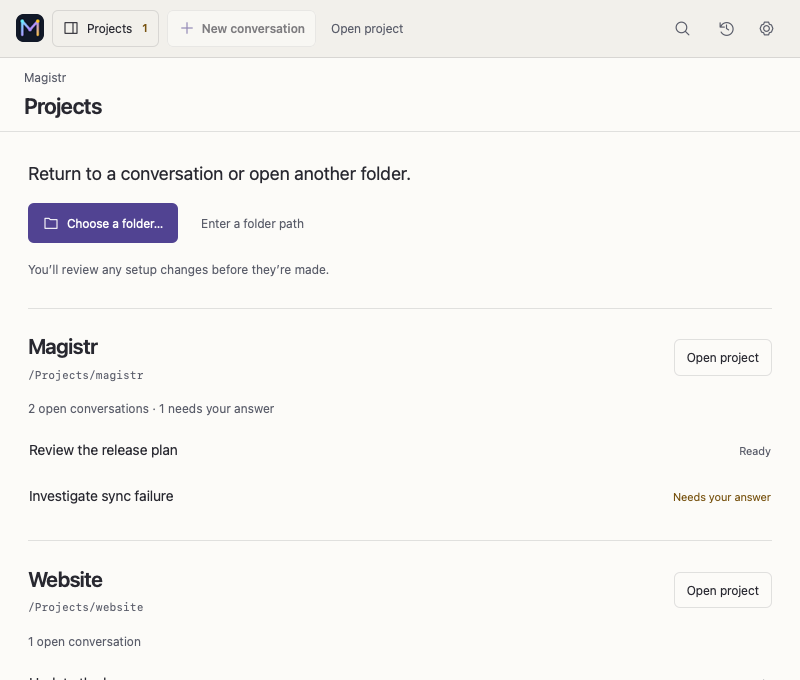
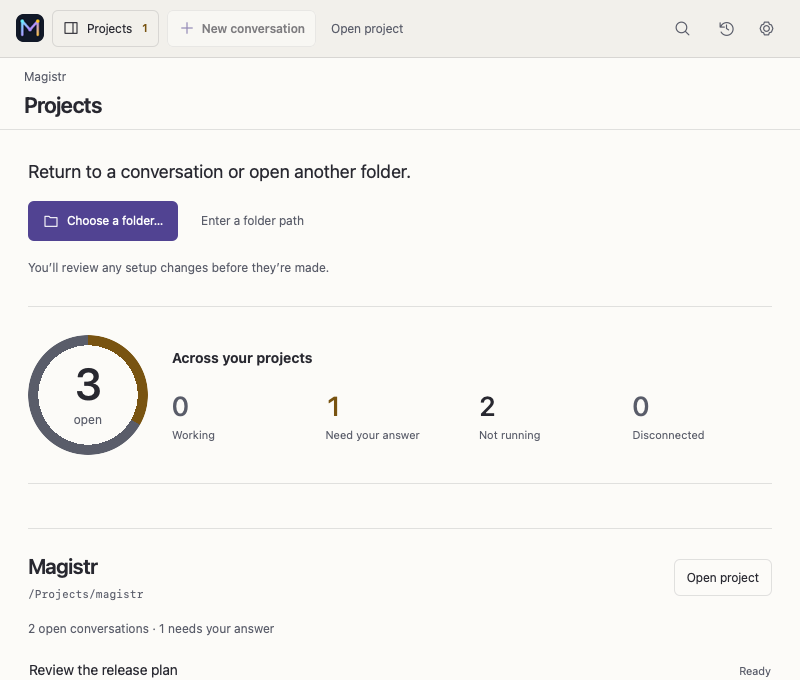
feat(desktop): compose a live project activity overview

diff --git a/crates/magistr-desktop/ui/style.css b/crates/magistr-desktop/ui/style.css
@@ -263,6 +263,17 @@ textarea::placeholder,input::placeholder{color:var(--muted);opacity:1}
 .welcome-actions button:first-child{background:var(--button);color:var(--button-text);border-color:var(--button)}
 .welcome-actions button+button{background:transparent;border-color:transparent;color:var(--muted)}
 
+.project-activity{display:grid;grid-template-columns:144px minmax(0,1fr);align-items:center;gap:40px;margin:0 0 44px;padding:28px 0;border-block:1px solid var(--separator)}
+.activity-wheel{display:grid;place-content:center;text-align:center;position:relative;isolation:isolate;width:144px;height:144px}
+.activity-wheel::before{content:"";position:absolute;inset:0;border-radius:50%;background:var(--activity-fill);mask:radial-gradient(circle,transparent 58%,black 59%);-webkit-mask:radial-gradient(circle,transparent 58%,black 59%);z-index:-1}
+.activity-wheel strong{font-size:44px;line-height:1.05;font-weight:500;font-variant-numeric:tabular-nums;letter-spacing:-.06em}.activity-wheel>span{font-size:12px;color:var(--muted);margin-top:4px}
+.activity-body h2{font-size:14px;letter-spacing:0;text-transform:none;color:var(--text);margin:0 0 24px}
+.activity-counts{display:grid;grid-template-columns:repeat(4,minmax(0,1fr));gap:20px;margin:0}
+.activity-count{display:flex;flex-direction:column-reverse;gap:8px;min-width:0}.activity-count dt{font-size:11px;line-height:1.4;color:var(--muted)}.activity-count dd{font-size:30px;font-weight:500;line-height:1;margin:0;font-variant-numeric:tabular-nums;letter-spacing:-.035em}
+.activity-count[data-kind=working] dd{color:var(--success)}.activity-count[data-kind=waiting] dd{color:var(--warning)}.activity-count[data-kind=disconnected] dd{color:var(--danger)}.activity-count[data-empty=true] dd{color:var(--muted)}
+@media(max-width:1100px){.project-activity{gap:24px;grid-template-columns:120px minmax(0,1fr)}.activity-wheel{width:120px;height:120px}.activity-counts{gap:14px}.activity-count dd{font-size:27px}}
+@media(max-width:600px){.project-activity{grid-template-columns:92px minmax(0,1fr);gap:20px}.activity-wheel{width:92px;height:92px}.activity-wheel strong{font-size:32px}.activity-counts{grid-template-columns:1fr 1fr;gap:18px}.activity-body h2{margin-bottom:18px}}
+@media(forced-colors:active){.activity-wheel::before{background:none;border:2px solid CanvasText;mask:none;-webkit-mask:none}}
 .directory-project{border-top:1px solid var(--separator);padding:24px 0}
 .directory-project-heading{display:flex;justify-content:space-between;align-items:center;gap:20px}
 .directory-project-title{min-width:0}.directory-project-title h2{text-transform:none;color:var(--text);font-size:21px;font-weight:600;line-height:1.3;letter-spacing:-.025em;margin:0 0 6px}

diff --git a/crates/magistr-desktop/ui/index.html b/crates/magistr-desktop/ui/index.html
@@ -37,6 +37,7 @@
     <div class="welcome-intro"><p class="welcome-description">Return to a conversation or open another folder.</p>
     <div class="welcome-actions"><button id="welcome-open" data-leading-icon="folder">Choose a folder…</button><button id="welcome-path">Enter a folder path</button></div>
     <p class="welcome-hint">You’ll review any setup changes before they’re made.</p></div>
+    <section id="project-activity" class="project-activity" aria-label="Open conversations"></section>
     <div id="welcome-projects" aria-label="Your projects"></div>
     <p id="directory-empty" hidden>No projects yet. Choose a folder to get started.</p>
     <p id="welcome-note" role="status" hidden></p>

diff --git a/docs/architecture/desktop.md b/docs/architecture/desktop.md
@@ -164,6 +164,8 @@ The desktop frame gives the conversation a broad reading surface and a compact c
 
 At 900 CSS pixels and below, ProjectRailLayout turns the rail's application actions into a compact top bar. Projects switches between the same navigation and main nodes; it does not create an overlay, another project registry or a new session. The native minimum is read from the window configuration and verified in dark and light captures. Escape, F6 and committed conversation selection reveal the intended surface. A failed selection save reveals the retained draft and its error. Background requests keep a visible count in Projects and the existing polite announcement. Above the threshold the usual rail and conversation are both visible. Short-window spacing keeps source, draft and action controls usable.
 
+The opening activity overview derives mutually exclusive working, waiting, idle and disconnected counts from the accepted catalog, excluding closed residents. Its ring and numeric legend visualize the same counts; no history or activity registry is created.
+
 The opening directory and rail reuse projectGroups over the recent-project overview and live session catalog. Keyed directory rows show actual working folders, open conversations and pending answers; counts update on accepted catalog observations. Closing a conversation removes it from the directory's open count. Both entry points select through the same draft-flush and subscription owner.
 
 Find a conversation filters the existing catalog by name, project and working-copy path and selects through the same draft-flush/navigation path. Results group by canonical project identity, showing a shared working folder once or explicit row paths for multiple copies. Its ordinary search field and result buttons support arrow-key browsing, preserve recoverable save errors and return focus to a surviving trigger. Platform shortcut labels are shown in the rail and Settings. F6 and Shift F6 visit projects, messages, composer and Details; compact layout changes reveal the intended region. Global navigation shortcuts ignore composition and open modal dialogs.

diff --git a/docs/reference/cockpit-modules.md b/docs/reference/cockpit-modules.md
@@ -140,6 +140,7 @@ desktop workspace. Companion Rust tests live beside their owners.
 - `crates/magistr-desktop/tests/selection.mjs`
 - `crates/magistr-desktop/tests/session_controls.mjs`
 - `crates/magistr-desktop/tests/session_controls_fixture.py`
+- `crates/magistr-desktop/ui/activity.mjs` — current catalog activity counts and their visual overview; no extra session state.
 - `crates/magistr-desktop/ui/app.mjs`
 - `crates/magistr-desktop/ui/history.mjs` — searchable saved-record browser, independent reading/list surfaces and guarded resume feedback.
 - `crates/magistr-desktop/tests/browser/history.spec.mjs` — background filtering, draft recovery, loading cancellation and refused resume.
